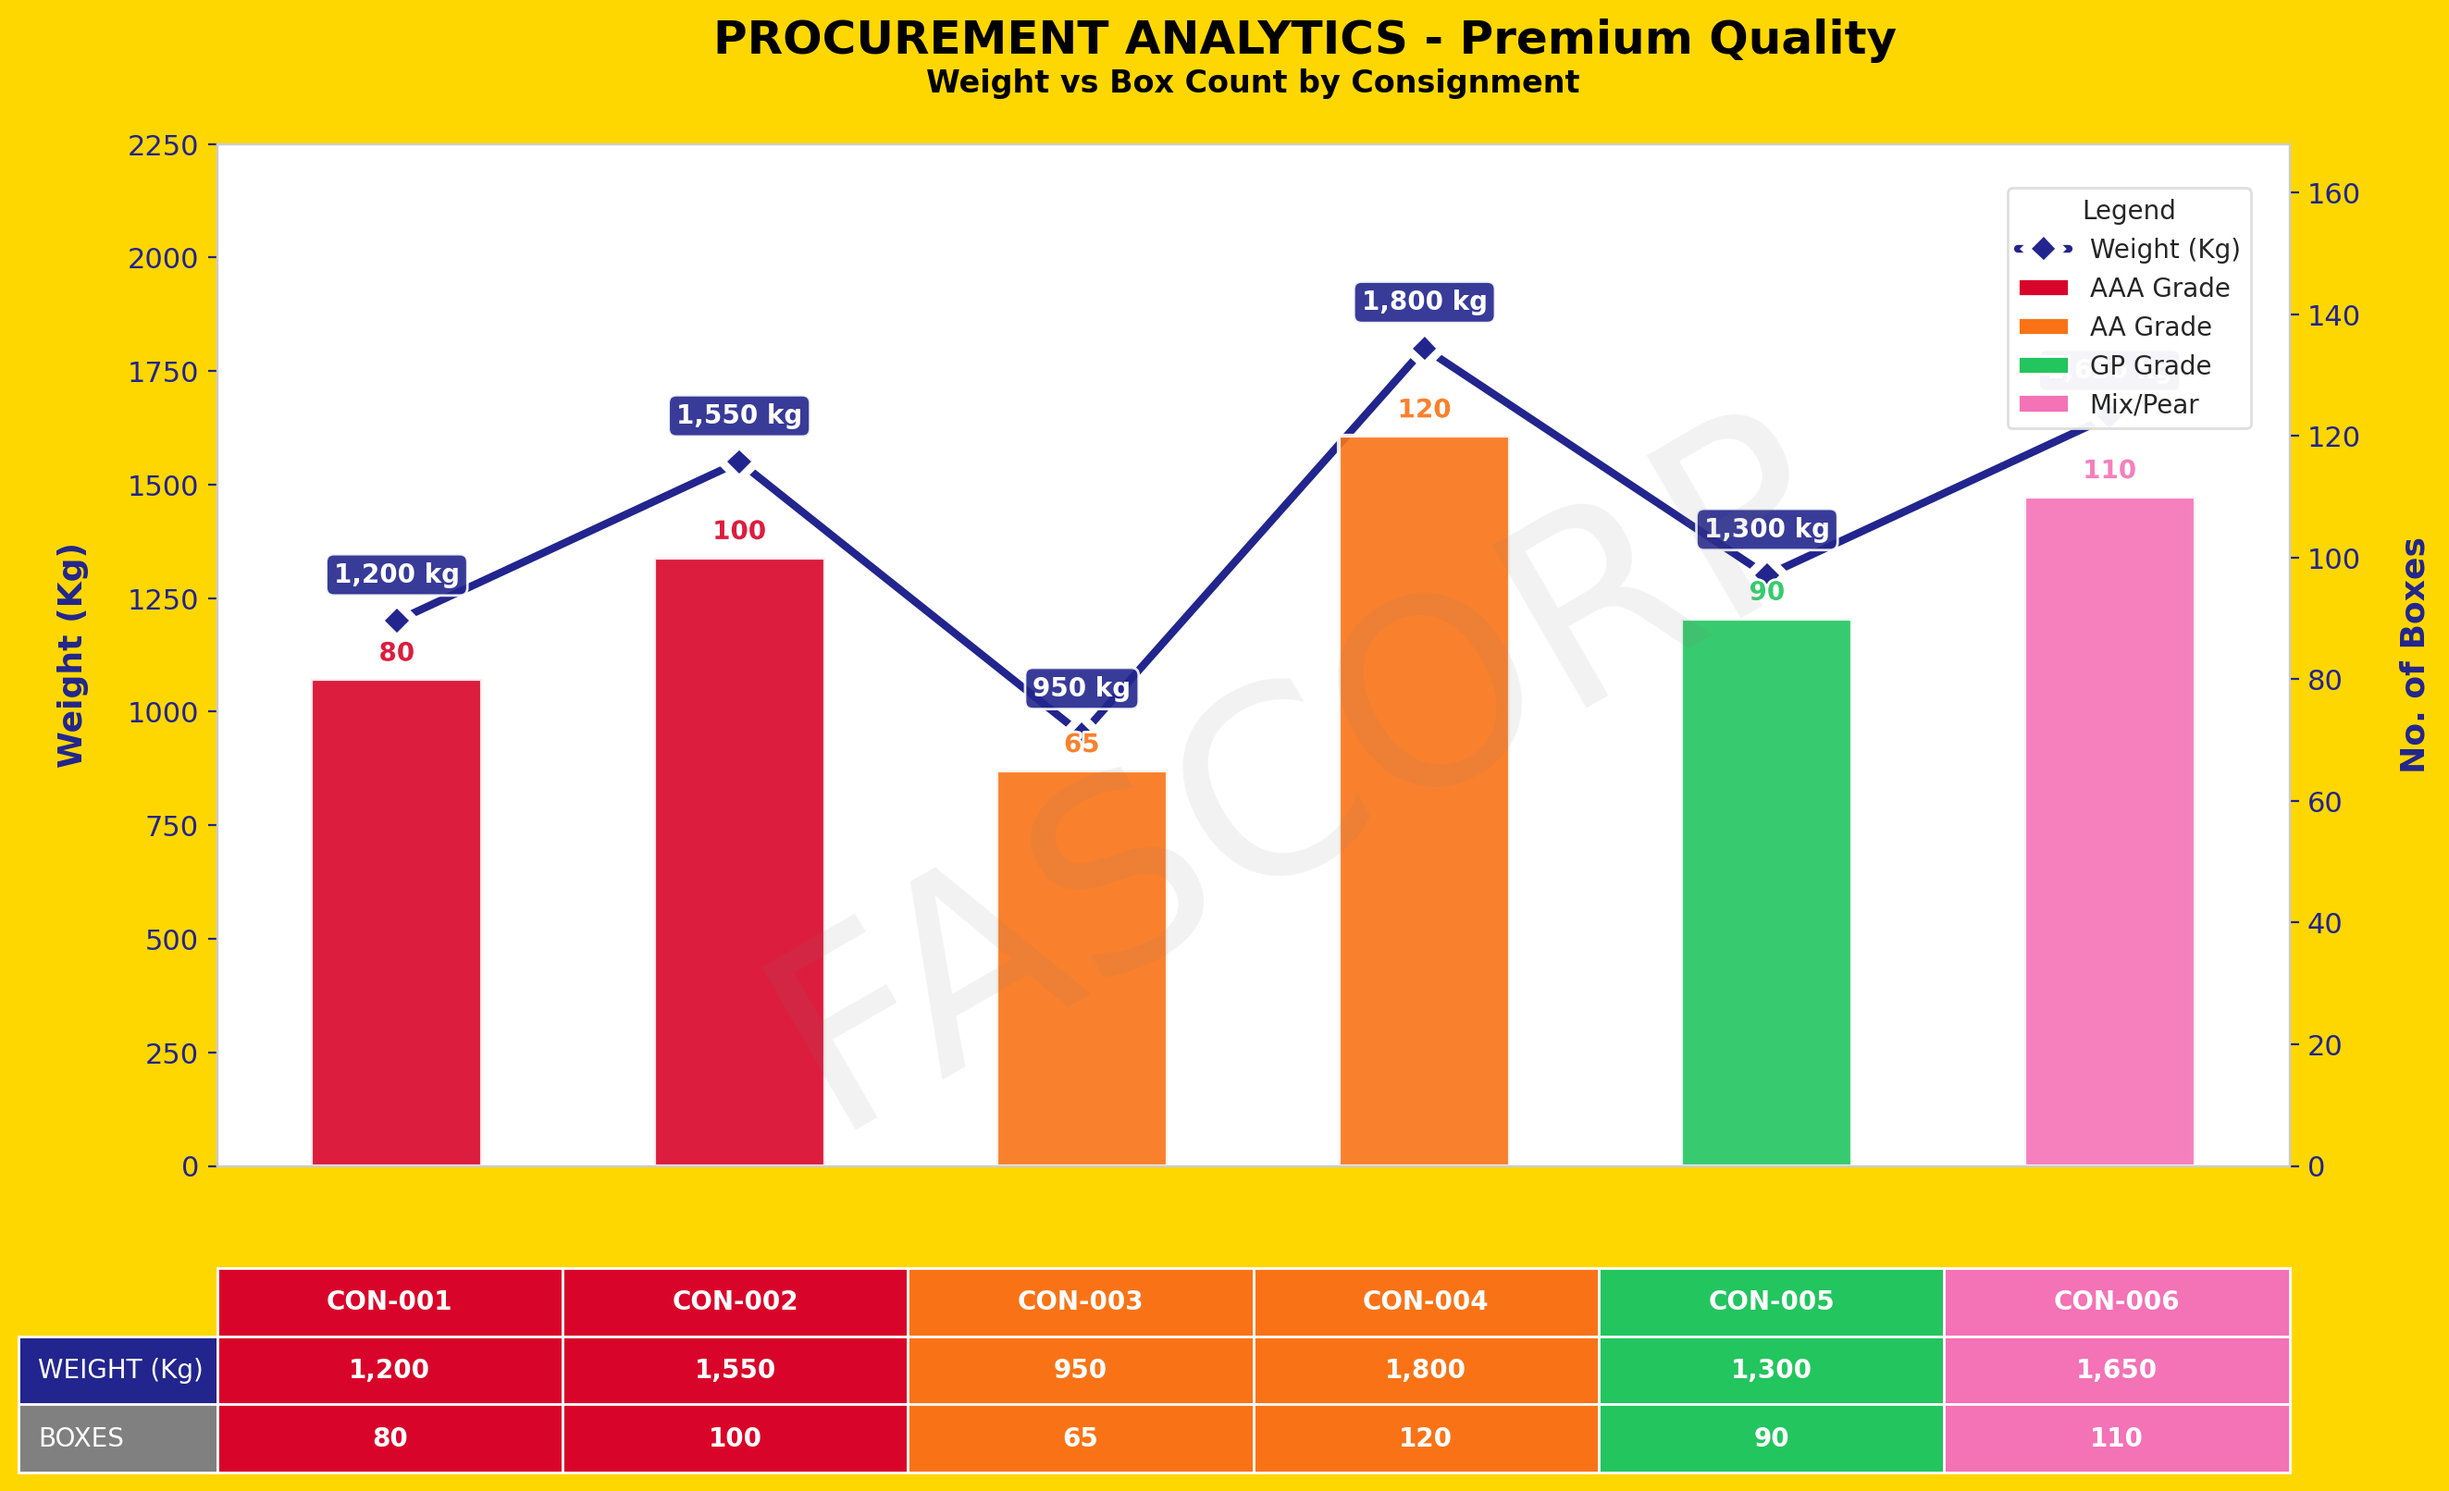
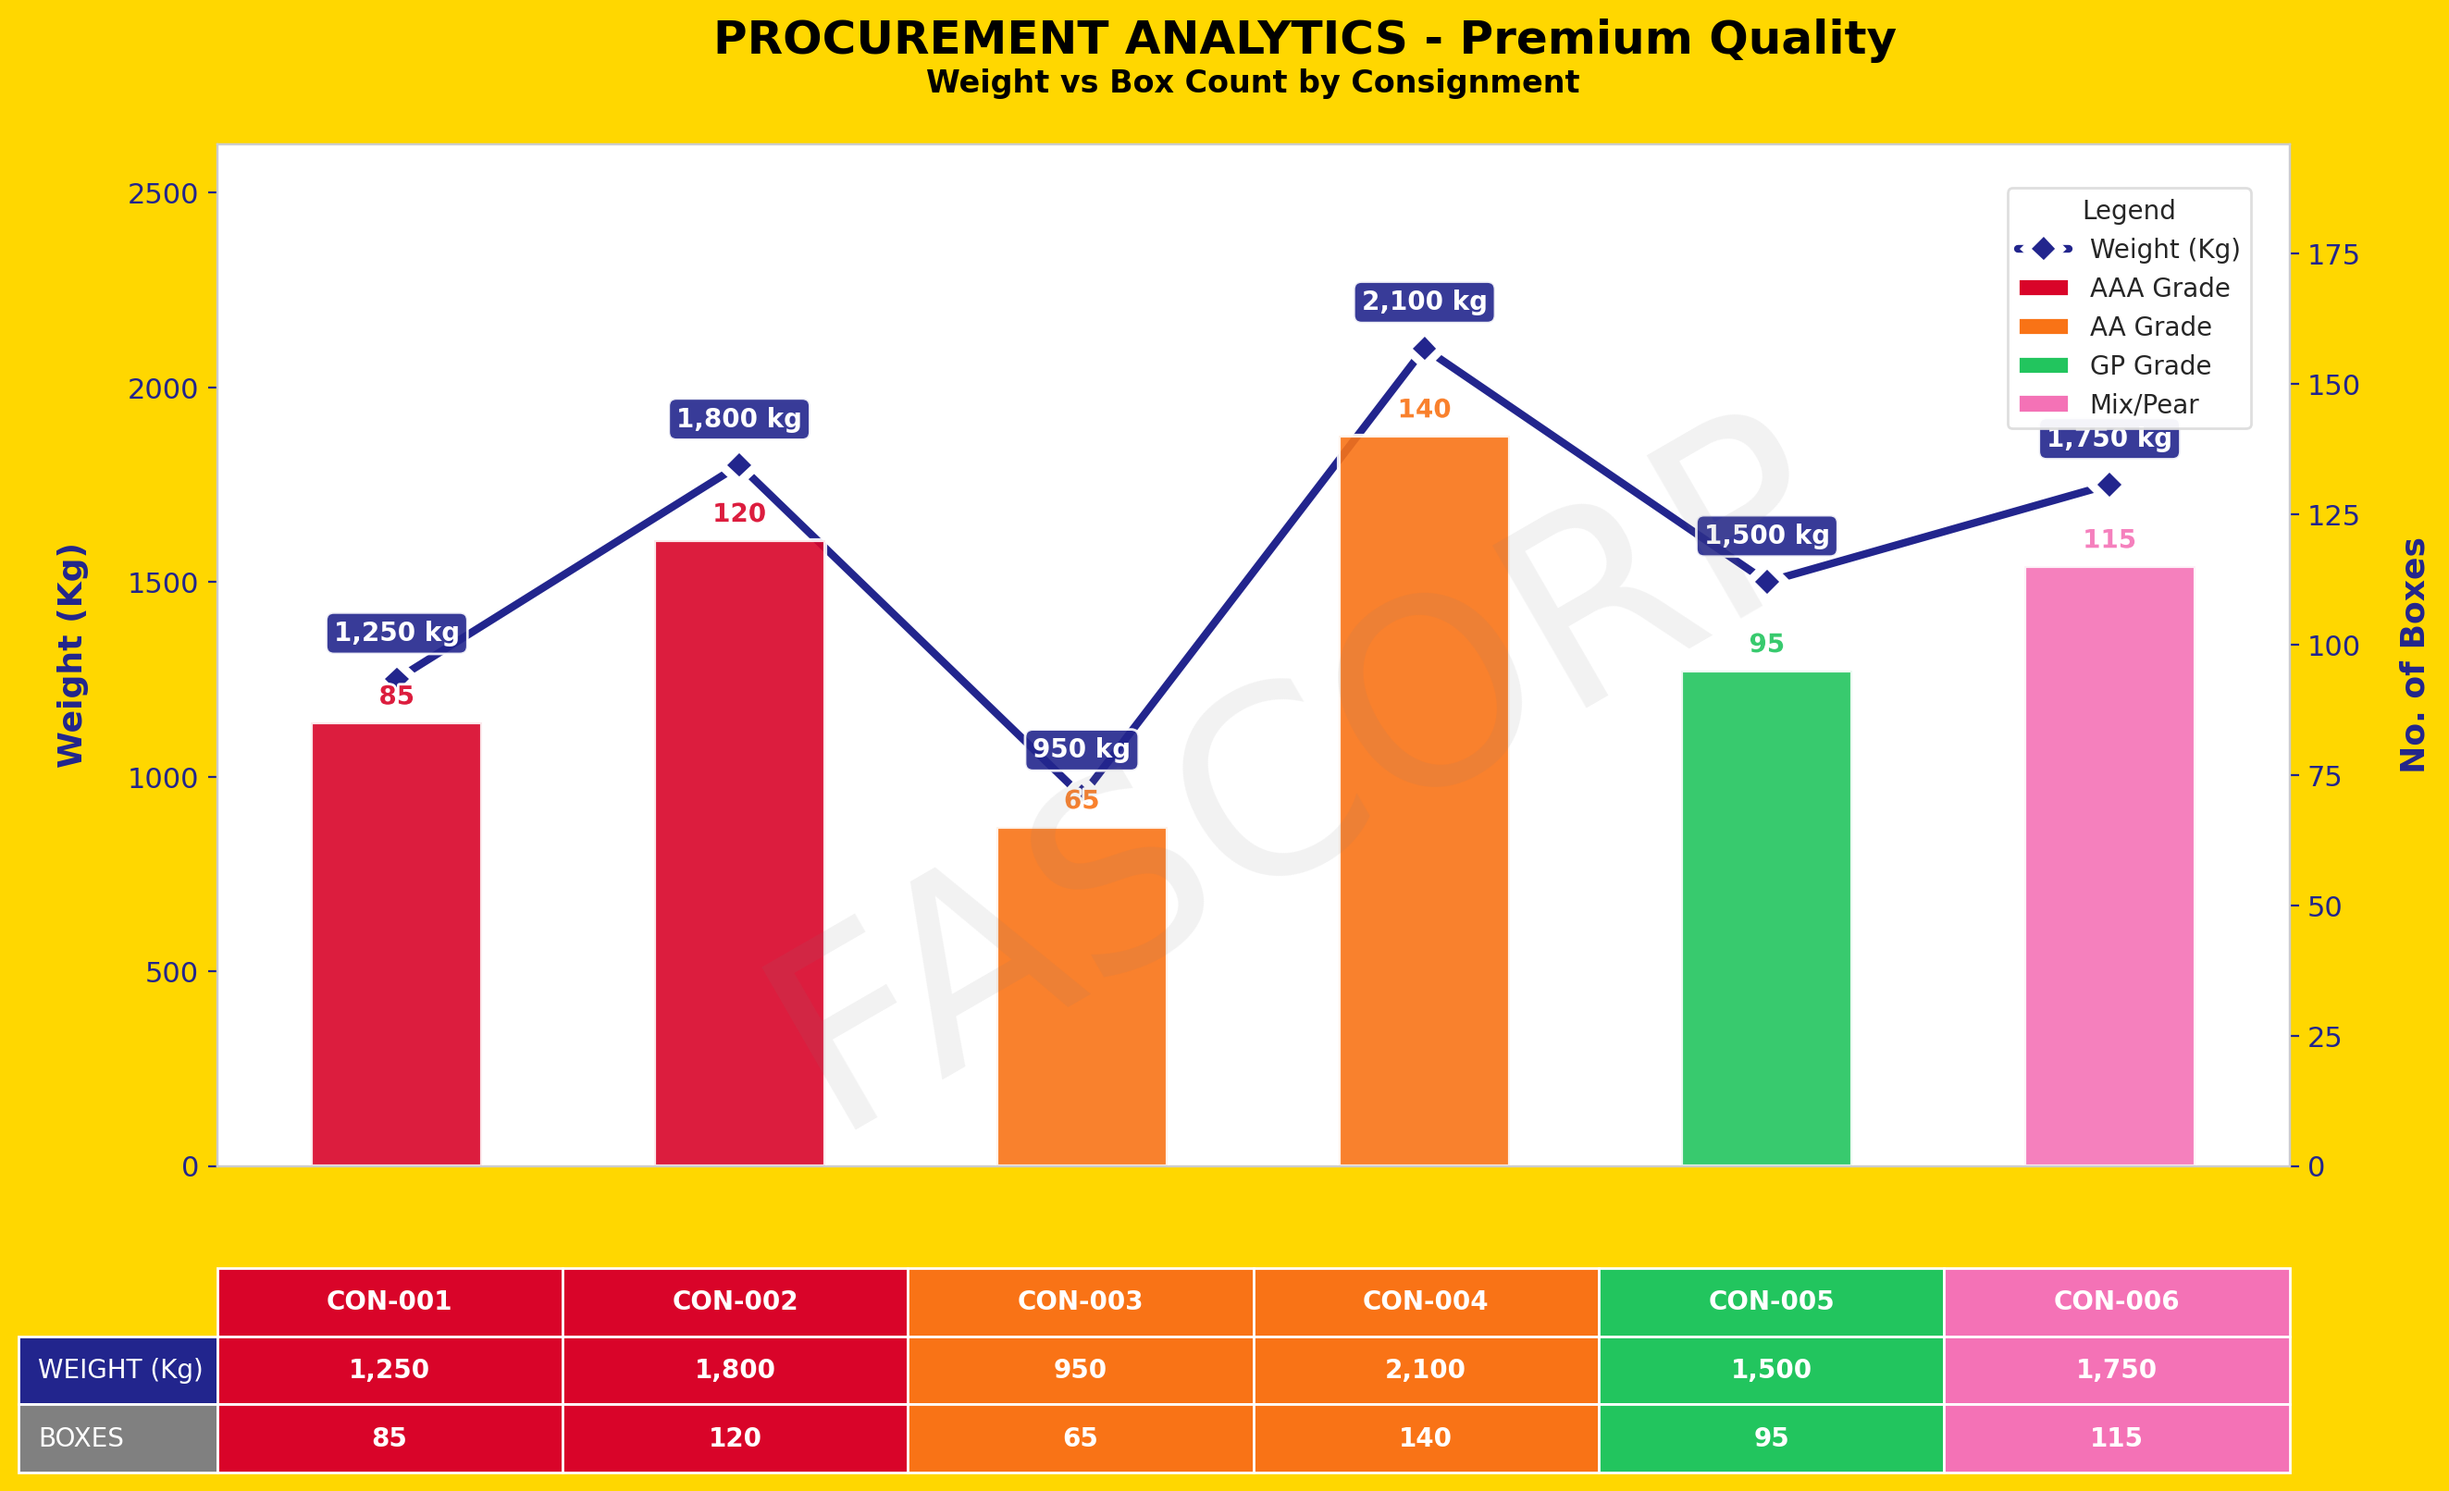
Graph v9update

diff --git a/graph.py b/graph.py
@@ -1,194 +1,41 @@
-import io
-import matplotlib
-matplotlib.use('Agg') # Use a non-interactive backend to prevent GUI display
-
+import requests
 import matplotlib.pyplot as plt
-import seaborn as sns
-import matplotlib.patheffects as path_effects
-from matplotlib.patches import Patch
+from io import BytesIO
 
-def generate_chart(categories, weights, boxes, quality='Standard', output_filename='chart.png'):
-    """
-    Generates and saves a modern styled bar-line chart.
+# Sample request data
+chart_data = {
+    "categories": ["CON-001", "CON-002", "CON-003", "CON-004", "CON-005", "CON-006"],
+    "weights": [1250, 1800, 950, 2100, 1500, 1750],
+    "boxes": [85, 120, 65, 140, 95, 115],
+    "quality": "Premium"
+}
 
-    Args:
-        categories (list): A list of strings for the x-axis categories.
-        weights (list): A list of numbers (int or float) for the line plot values.
-        boxes (list): A list of numbers (int or float) for the bar chart values.
-        quality (str, optional): A string to be included in the chart title. Defaults to 'Standard'.
-        output_filename (str, optional): The name of the file to save the chart as. Defaults to 'chart.png'.
-    """
-    # 1. Validate data length
-    if not (len(categories) == len(weights) == len(boxes)):
-        print("Error: All lists (categories, weights, boxes) must be of the same length.")
-        return
-
-    # 2. Setup modern style for the plot
-    sns.set_style("whitegrid", {'grid.linestyle': ':', 'grid.color': '0.8'})
-    plt.rcParams['font.family'] = 'DejaVu Sans'
-    plt.rcParams['axes.titleweight'] = 'bold'
-    plt.rcParams['axes.labelweight'] = 'bold'
-    
-    # Create figure and primary axis
-    # --- CHANGE: Set figure background to gold ---
-    fig, ax1 = plt.subplots(figsize=(14, 8.5), facecolor="gold")
-    fig.subplots_adjust(left=0.08, right=0.88, top=0.9, bottom=0.25) # Adjust bottom for table
-    
-    # 3. Line Plot (for Weights)
-    line_color = "#22258d"
-    # Plot the line with markers and effects for better visibility
-    ax1.plot(categories, weights, 
-             color=line_color,
-             marker='D',
-             markersize=8,
-             markeredgecolor='white',
-             markeredgewidth=1.5,
-             linewidth=3, 
-             label="Weight (Kg)",
-             path_effects=[path_effects.withStroke(linewidth=5, foreground='white')])
-
-    # Add data labels above the line plot points
-    for x, y in zip(categories, weights):
-        ax1.annotate(f"{y:,} kg", (x, y),
-                     textcoords="offset points", xytext=(0,15), ha='center',
-                     fontsize=10, fontweight='bold', color='white',
-                     bbox=dict(boxstyle='round,pad=0.3', facecolor=line_color, edgecolor='white', alpha=0.9))
-
-    ax1.set_ylabel("Weight (Kg)", color=line_color, fontsize=13, labelpad=15)
-    ax1.tick_params(axis='y', colors=line_color, labelsize=11)
-    ax1.set_ylim(0, max(weights) * 1.25)
-    
-    # 4. Bar Plot (for Boxes) on a secondary axis
-    ax2 = ax1.twinx() # Create a secondary y-axis sharing the same x-axis
-   
-
-    
-    # --- CHANGE: Make ax2 background transparent to show ax1's white grid ---
-
-
-    # Define bar colors. Use a default if lengths don't match.
-    bar_colors = ['#d90429', '#d90429', '#f97316', '#f97316', '#22c55e', '#f472b6']
-    if len(categories) != len(bar_colors):
-        bar_colors = ['#3a7bd5'] * len(categories)
-
-    # Plot the bars
-    bars = ax2.bar(categories, boxes, 
-                   color=bar_colors,
-                   alpha=0.9, 
-                   width=0.5,
-                   edgecolor='white',
-                   linewidth=1.5,
-                   label="No. of Boxes")
-
-    # Add value labels on top of each bar
-    for bar in bars:
-        height = bar.get_height()
-        ax2.annotate(f"{height}",
-                     xy=(bar.get_x() + bar.get_width() / 2, height),
-                     xytext=(0, 5), # 5 points vertical offset
-                     textcoords="offset points",
-                     ha='center', va='bottom',
-                     fontsize=10,
-                     fontweight='bold',
-                     color=bar.get_facecolor(),
-                     path_effects=[path_effects.withStroke(linewidth=2, foreground='white')])
-
-    ax2.set_ylabel("No. of Boxes", color="#22258d", fontsize=13, labelpad=15)
-    ax2.tick_params(axis='y', colors='#22258d', labelsize=11)
-    ax2.set_ylim(0, max(boxes) * 1.4)
-    
-    # 5. Titles and X-axis labels
-    # --- CHANGE: Set title color to white and bold ---
-    fig.suptitle(f"PROCUREMENT ANALYTICS - {quality} Quality", fontsize=18, y=0.98, color="#000000", fontweight='bold')
-    plt.title("Weight vs Box Count by Consignment", fontsize=12, pad=20, color='#000000', fontweight='bold')
-    ax1.tick_params(axis='x', rotation=0, labelsize=11, colors='#555555')
-
-    # 6. Data Table at the bottom of the chart
-    cell_text = [[f"{w:,}" for w in weights], boxes]
-    row_labels = ['WEIGHT (Kg)', 'BOXES']
-    row_colors = [line_color, '#808080']
-    col_colors = bar_colors
-
-    table = plt.table(cellText=cell_text,
-                      rowLabels=row_labels,
-                      rowColours=row_colors,
-                      colLabels=categories,
-                      colColours=col_colors, # Use the bar colors for column backgrounds
-                      cellLoc='center',
-                      loc='bottom',
-                      bbox=[0, -0.3, 1, 0.2]) # Position the table
-    
-    table.auto_set_font_size(False)
-    table.set_fontsize(10)
-    
-    # --- CHANGE: Color full columns and adjust text for contrast ---
-    for key, cell in table.get_celld().items():
-        cell.set_edgecolor('w')
-        row_idx, col_idx = key
-
-        # This condition handles the data cells (not headers)
-        if row_idx > -1 and col_idx > -1:
-            cell.set_facecolor(bar_colors[col_idx])
-            cell.set_text_props(color='white', weight='bold')
-        # This condition handles the row headers (e.g., 'WEIGHT', 'BOXES')
-        elif col_idx == -1 and row_idx > -1:
-            cell.set_text_props(color='white')
-        # This condition handles the column headers (e.g., 'CON-001')
-        elif row_idx == -1 and col_idx > -1:
-            cell.set_text_props(weight='bold', color='white')
-
-    # 7. Custom Legend
-    handles1, labels1 = ax1.get_legend_handles_labels()
-    # Create custom patches for the bar chart categories
-    handles2 = [Patch(facecolor=color, label=label) for color, label in 
-                [('#d90429', 'AAA Grade'), ('#f97316', 'AA Grade'), ('#22c55e', 'GP Grade'), ('#f472b6', 'Mix/Pear')]]
-    labels2 = [h.get_label() for h in handles2]
-
-    # Combine legends and place them on the figure
-    fig.legend(handles1 + handles2, labels1 + labels2,
-               title="Legend",
-               loc='upper right',
-               bbox_to_anchor=(0.87, 0.88),
-               frameon=True,
-               framealpha=0.95,
-               facecolor='white',
-               edgecolor='#dddddd')
-    
-    # 8. Final Touches
-    ax1.set_xticks([]) # Hide original x-axis ticks, as they are in the table
-    ax1.grid(False)
-    ax2.grid(False) # Turn off grid for the secondary axis
-
-    # Add a watermark
-    fig.text(0.5, 0.5, 'FASCORP', 
-             fontsize=100, color='grey', 
-             ha='center', va='center', alpha=0.1, rotation=30)
-    
-    # 9. Save the figure to a file
-    try:
-        plt.savefig(output_filename, format='png', dpi=200, bbox_inches='tight', facecolor=fig.get_facecolor())
-        print(f"Chart successfully saved to {output_filename}")
-    except Exception as e:
-        print(f"Error saving chart: {e}")
-    finally:
-        plt.close(fig) # Close the figure to free up memory
-
-
-if __name__ == '__main__':
-    # This block will only run when the script is executed directly
-    # It serves as a test case for the module.
-    
-    # --- Sample Data ---
-    sample_categories = ['CON-001', 'CON-002', 'CON-003', 'CON-004', 'CON-005', 'CON-006']
-    sample_weights = [1200, 1550, 950, 1800, 1300, 1650]
-    sample_boxes = [80, 100, 65, 120, 90, 110]
-    sample_quality = 'Premium'
-    
-    # --- Generate the chart using the function ---
-    generate_chart(
-        categories=sample_categories,
-        weights=sample_weights,
-        boxes=sample_boxes,
-        quality=sample_quality,
-        output_filename="procurement_chart.png" # Specify a custom output file name
+# Make the POST request
+try:
+    response = requests.post(
+        "http://localhost:5000/chart",  # Replace with your server URL
+        json=chart_data,
+        headers={"Content-Type": "application/json"}
     )
+
+    if response.status_code == 200:
+        # Option 1: Save to file
+        with open("procurement_chart.png", "wb") as f:
+            f.write(response.content)
+        print("Chart saved as procurement_chart.png")
+
+        # Option 2: Display directly using matplotlib
+        img = plt.imread(BytesIO(response.content))
+        plt.figure(figsize=(12, 7))
+        plt.imshow(img)
+        plt.axis('off')
+        plt.title("Generated Procurement Chart")
+        plt.show()
+
+    else:
+        print(f"Error {response.status_code}: {response.json().get('error', 'Unknown error')}")
+
+except requests.exceptions.RequestException as e:
+    print(f"Request failed: {str(e)}")
+except Exception as e:
+    print(f"Error processing response: {str(e)}")

diff --git a/server.py b/server.py
@@ -141,9 +141,7 @@ def generate_chart():
     
     # 4. Bar Plot (Boxes)
     ax2 = ax1.twinx()
-    ax2.set_facecolor('#f5f5f5')
-    ax1.set_zorder(ax2.get_zorder() + 1)
-    ax1.patch.set_visible(False)
+    
 
     bar_colors = ['#d90429', '#d90429', '#f97316', '#f97316', '#22c55e', '#f472b6']
     if len(categories) != len(bar_colors):
